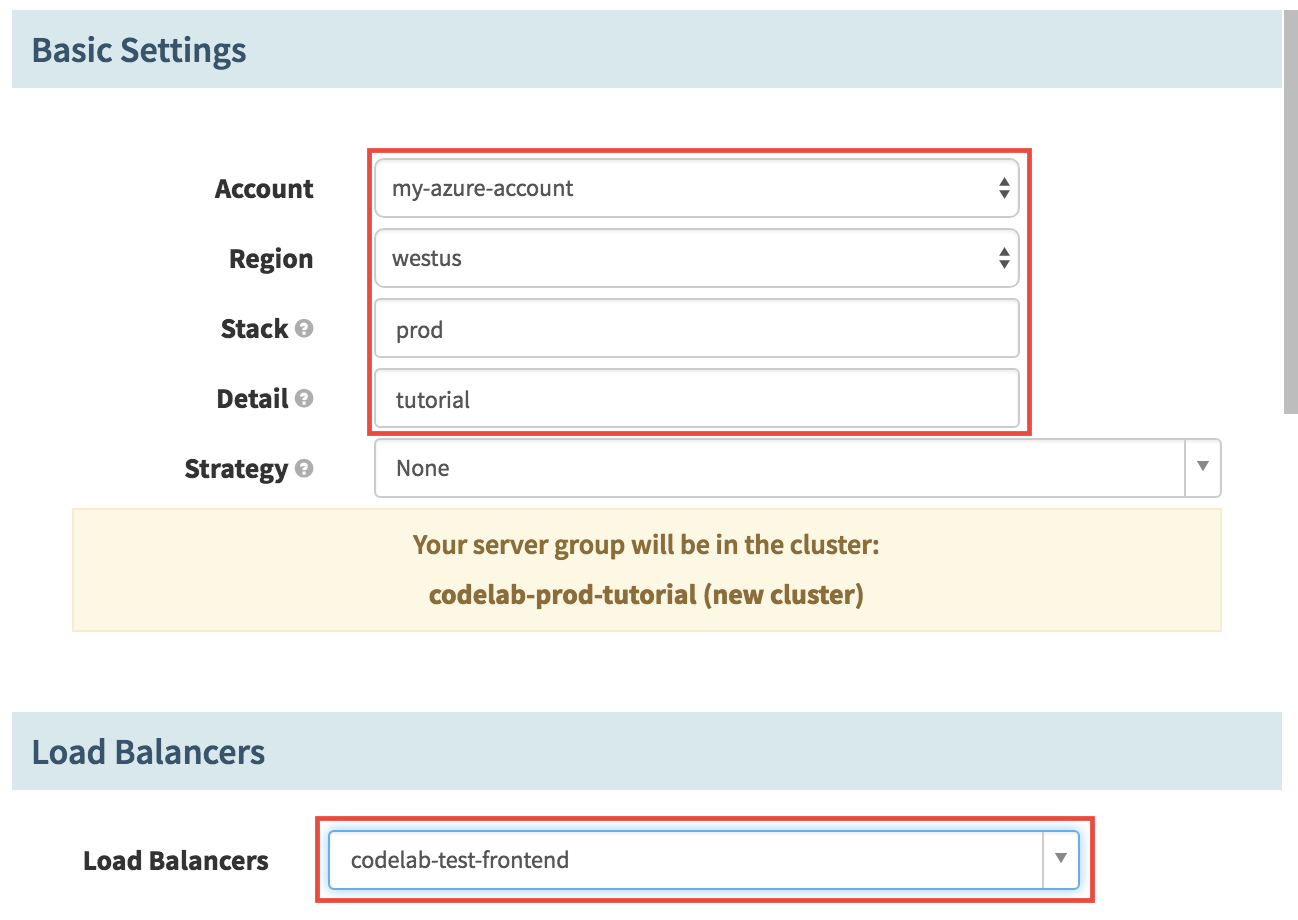
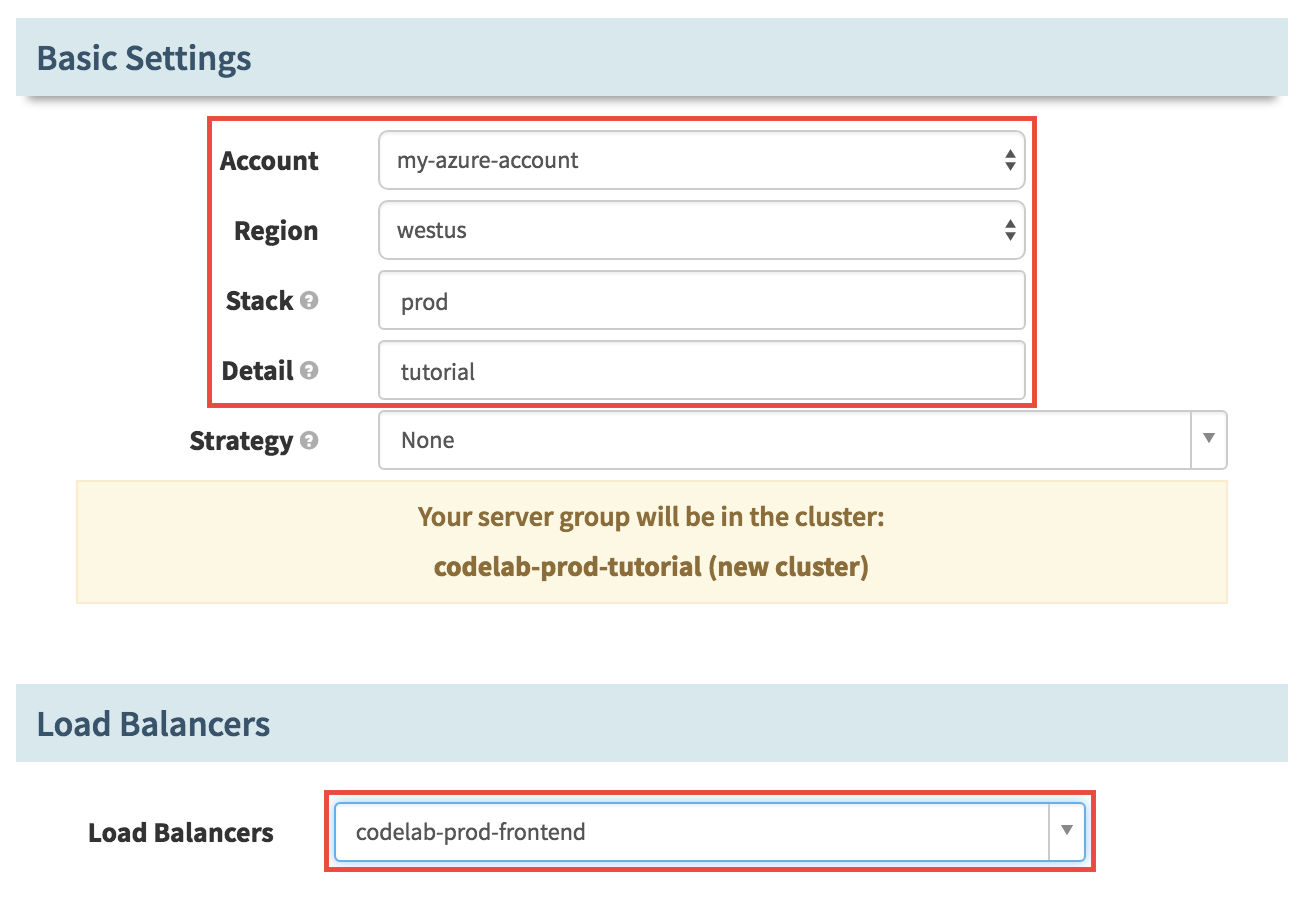
Update of documentation

Changed region(s): [[0.0, 0.0, 1.0, 0.7077], [0.0, 0.7385, 0.9861, 0.9846], [0.9861, 0.8, 1.0, 0.8308]]

diff --git a/guides/tutorials/codelabs/azure-vmss-source-to-prod/index.md b/guides/tutorials/codelabs/azure-vmss-source-to-prod/index.md
@@ -8,67 +8,41 @@ sidebar:
 {% include toc %}
 
 In this codelab, you will create a source-to-prod continuous delivery flow from source to production for a simple java based application.
-When the developer checkin code on github, a new build will be automatically triggered on Jenkins then the new version of the application will be deployed to a test environment in Azure. After a successfull test, the updated version of the application will be promoted to production. 
 
-This codelab will walk through the following step in order to implement the scenario described above: 
+After completing this lab the following workflow will happen: 
+  1. Some code is checked in on gthub.
+  2. Jenkins automatically runs a job to create a new build. 
+  3. Spinnaker deploys the new version of the application to a Test server group and disable the previous deployment.
+  4. The deployment is verified
+  5. Spinnaker redeploys the same image to the production environment and disable the previous deployment.
+  
+This codelab will walk through the steps to  implement this scenario: 
 
-0. Setup the environment and the necessary pre-requisites
-1. Configure Jenkins and Spinnaker
-2. Create a pipeline for test
-3. Create the promotion of the test to production
+  * Setup the environment and the necessary pre-requisites
+  * Configure Jenkins and Spinnaker
+  * Create the pipeline for the deployment
 
 ## 0. Environment pre-requisites 
 
 ### Deploy Spinnaker and Jenkins on Azure 
 
-If you already have Jenkins and Azure deployed on Azure, skip to the [first section](#1. Configure Jenkins).
-
 You need the following resources to perform the codelab: 
 - **Azure subscription**: You can create one for free using the [Azure Free trial](https://azure.microsoft.com/free/).
 - **Spinnaker and Jenkins VM**: You can deploy them on your Azure subscription with the [Continuous Deployment quick start template](https://github.com/Azure/azure-quickstart-templates/tree/master/301-jenkins-aptly-spinnaker-vmss) 
 
-Create a service principal with the following commands: 
+From a shell run the following command that will walk you through all the steps necessary to deploy Jenkins and Spinnaker in Azure:
 
-```bash
-az ad sp create-for-rbac --name "Spinnaker"
-APP_ID=<Insert App Id>
-TENANT_ID=<Insert Tenant Id>
+```bash 
+bash <(curl -sL https://aka.ms/DeployDevOps)
 ```
 
-Next, create a Resource Group with the following commands: 
+In the output of the above script you will find the command to open an SSH tunnel to the DevOps VM that has just been deployed. The command should look like this: 
 
 ```bash
-RESOURCE_GROUP=codelab
-az group create -n $RESOURCE_GROUP -l westus
+ssh -L 8080:localhost:8080 -L 9000:localhost:9000 -L 8084:localhost:8084 -L 8087:localhost:8087 username@vmdnsprefix.selected_region.cloudapp.azure.com
 ```
 
-> NOTE: It is suggested to use "codelab" for the name of the resource group but you can use the name you want. It should be unique in your subscription.
-
-Then deploy the DevOps VM that will have Spinnaker and Jenkins configured: 
-
-```bash
-TEMPLATE_URI=https://raw.githubusercontent.com/Azure/azure-quickstart-templates/master/301-jenkins-aptly-spinnaker-vmss/azuredeploy.json
-
-az group deployment create -g $RESOURCE_GROUP -n First.Deployment \
---template-uri $TEMPLATE_URI \
---parameters "{ \"adminUsername\": {\"value\":\"<$Insert your admin username>\"}, \
-                \"adminPassword\": {\"value\": \"<$Insert your admin password>\"}, \
-                \"devopsDnsPrefix\": {\"value\": \"<$Insert your dns prefix>\"}, \
-                \"servicePrincipalAppId\": {\"value\": \"$APP_ID\"}, \
-                \"servicePrincipalAppKey\": {\"value\": \"$TENANT_ID\"}}"
-
-```
-
-> NOTE: This step will take some time, be patient, enjoy a coffee :)
-
-Open an SSH tunnel to the DevOps VM that has just been deployed: 
-
-```bash
-SSH=$(az group deployment show -n First.Deployment -g codelab --query "properties.outputs.ssh.value" | tr -d '"')
-eval $SSH
-```
-
-> NOTE: You have to enter the password that you have specified in the previous step.
+> NOTE: You will have to enter the password that you have specified in the previous step.
 
 
 ## 1. Configure Jenkins 
@@ -83,7 +57,7 @@ eval $SSH
 
 ## 2. Configure Spinnaker
 
-### 1. Create the "codelab" application 
+### I. Create the "codelab" application 
 
 1. Navigate to your Spinnaker VM by using `http://localhost:9000` on your local machine. 
 1. Click on the "Actions" menu on the right
@@ -101,7 +75,7 @@ eval $SSH
   
     You can read more how the Spinnaker application matches to Azure resources in the [Azure reference for Spinnaker](/reference/providers/azure.md)
 
-### 2. Create a Security Group"
+### II. Create a Security Group"
 
 1. Navigate to the [SECURITY GROUPS](http://localhost:9000/#/applications/codelab/securityGroups) page and click on the *Create Security Group* button.
 1. Provide the following values in the "Create New Security Group" dialog: 
@@ -122,7 +96,7 @@ eval $SSH
 
   You can read more about the implementation of Security Groups in Azure in the [Azure reference for Spinnaker](/reference/providers/azure.md)
 
-### 3. Create a Load Balancer
+### III. Create a Load Balancer
 
 1. Navigate to the [LOAD BALANCERS](http://localhost:9000/#/applications/codelab/loadBalancers) page and click the *Create Load Balancer* button.
 1. Provide the following values in the "Create New Load Balancer" dialog: 
@@ -136,26 +110,31 @@ eval $SSH
     Verify that the Listener is configured as follows: 
   * Protocol: HTTP
   * External Port: 80
-  * Internal Port: 80 
+  * Internal Port: 8080 
 
     And click "Create", this will take approximately 15 minutes to complete.
 
-    ![Create load balancer](images/2-create-load-balancer.png)
+    ![Create test load balancer](images/2-create-test-load-balancer.png)
 
     You can learn more about the implementation of the Spinnaler Load Balancer in the [Azure reference for Spinnaker](/reference/provider/azure.md)
+
+1. Repeat the above steps to create a second load balancer for production. Use the same parameters but the following change:
+  * Stack: prod 
+
+    ![Create prod load balancer](images/2-create-prod-load-balancer.png)
 
 ## 3. Bake and Deploy to Test
 
 In this section you will create a Spinnaker pipeline that will bake the image from a Jenkins build then deploy it to test.
 
-### 1. Create a new pipeline
+### I. Create a new pipeline
 
 1. Navigate to the [PIPELINES](http://localhost:9000/#/applications/codelab/executions) page and click on the *New* button (+ sign) on the right to create a new pipeline.
 1. Name your pipeline: "Deploy codelab" and click *Create*.
 
 ![Bake and Deploy to Test](images/3-create-new-pipeline.png)
 
-### 2. Add a trigger for the pipeline
+### II. Add a trigger for the pipeline
 
 1. Click *Add Trigger* in the *Deploy codelab* window.
 1. Select the following options: 
@@ -166,7 +145,7 @@ In this section you will create a Spinnaker pipeline that will bake the image fr
 
 ![Add a trigger](images/3-add-trigger.png)
 
-### 3. Add *Bake* stage
+### III. Add *Bake* stage
 
 1. Click *Add stage* in the *Deploy codelab* window.
 1. Enter the following values: 
@@ -178,7 +157,7 @@ In this section you will create a Spinnaker pipeline that will bake the image fr
 
 ![Add Bake](images/3-add-bake-stage.png)
 
-### 4. Add *Deploy to test* stage
+### IV. Add *Deploy to test* stage
 
 1. Click *Add stage*
 1. Enter the following values: 
@@ -188,7 +167,7 @@ In this section you will create a Spinnaker pipeline that will bake the image fr
 
 ![Add Deploy to Test](images/3-add-deploy-to-test.png)
 
-### 5. Create Test deployment configuration
+### V. Create Test deployment configuration
 
 1. Click *Add server group* in the Deploy Configuration section. 
 ![Add server group](images/3-add-server-group.png)
@@ -213,7 +192,7 @@ In this section you will create a Spinnaker pipeline that will bake the image fr
 
 > NOTE: Record the name of the cluster. it will be used in the next step.
 
-### 6. Enable test deployment 
+### VI. Enable test deployment 
 
 1. Click *Add stage* in the *Deploy codelab* section.
 1. Enter the following values: 
@@ -227,7 +206,7 @@ In this section you will create a Spinnaker pipeline that will bake the image fr
 
     ![Enable test Deployment](images/3-enable-test-deployment.png)
 
-### 7. Manual Judgement 
+### VII. Manual Judgement 
 
 1. Click *Add stage* in the *Deploy codelab* section.
 1. Use the following values: 
@@ -235,16 +214,14 @@ In this section you will create a Spinnaker pipeline that will bake the image fr
   * Name: Manual Judgment
   * Depends On: Enable Test Deployment
   * Instructions: Validate test cluster 
-  * Judgement Inputs: Click *Add judgment input* and type *Go*
-    Users will select this value for the input of the manual judgement stage
 
 Save the pipeline by clicking the *Save Changes* button at the bottom right.
 
 ## 4. Promote to Prod
 
-In this section we will ad the steps that will promote the deployment to test in production.
+In this section we will add the steps that will promote the deployment to test in production.
 
-### 1. Add Deploy to prod stage
+### I. Add Deploy to prod stage
 
 1. Click *Add stage* in the *Promote to Prod* section. 
 1. Use the following values to configure the stage:
@@ -252,7 +229,7 @@ In this section we will ad the steps that will promote the deployment to test in
   * Stage Name: Deploy to Prod
   * Depends On: Manual Judgment
 
-### 2. Create Production deployment configuration 
+### II. Create Production deployment configuration 
 
 1. Click *Add server group* in the Deploy Configuration section. 
 1. Click *Continue without a template*
@@ -261,7 +238,7 @@ In this section we will ad the steps that will promote the deployment to test in
   * Region: westus (or select the region that you have selected when creating the Security Group)
   * Stack: prod
   * Details: tutorial
-  * Load Balancers: codelab-test-frontend
+  * Load Balancers: codelab-prod-frontend
   ![Configure Prod Cluster - 1](images/4-configure-prod-cluster-1.png)
   * Subnets: devopsSubnet2
   * Security Groups: codelab-web
@@ -270,13 +247,13 @@ In this section we will ad the steps that will promote the deployment to test in
     - Custom Data: PROD
     - Custom Script: https://raw.githubusercontent.com/azure-devops/hello-karyon-rxnetty/master/scripts/setcustomenv.sh
     - Command To Execute: sudo bash ./setcustomenv.sh
-  ![Configure Deployment Cluster - 3](images/3-configure-deployment-cluster-3.png)
+  ![Configure Deployment Cluster - 3](images/4-configure-prod-cluster-2.png)
 
   * Click *Add* 
 
 > NOTE: Record the name of the cluster. it will be used in the next step.
 
-### 3. Enable Prod deployment
+### III. Enable Prod deployment
 
 1. Click *Add stage* in the *Deploy codelab* section.
 1. Use the following values to configuret this stage: 
@@ -295,26 +272,35 @@ In this section we will ad the steps that will promote the deployment to test in
 
 In this step you will try out the pipeline that you have just build. 
 
-1. Click on *Start Manual Execution* 
+1. Modify the application code to trigger a new Jenkins build and monitor that it triggers the Spinnaker pipeline.
+   You can also click on *Start Manual Execution* if you want to use an existing build. 
 1. Navigate to the [PIPELINES](http://localhost:9000/#/applications/codelab/executions) tab
 1. Click on *Details* to get more information about the status of your deployment
+1. Connect to your application. 
+   You can find the public name of your application ny looking at the DNS Name that has been assigned to your load balancer.
+   ![DNS Name of your application](images/5-application-dns-name.png) 
 
 ## 6. Tear Down
 
-### 1. Delete your pipeline 
+### I. Delete your pipeline 
 
 1. In the configuration of your pipeline, click on *Pipeline Actions* then click on *Delete*
 ![Delete pipeline](images/6-delete-pipeline.png)
 
-### 2. Delete your server groups 
+### II. Delete your server groups 
 
 1. Navigate to the [CLUSTERS](http://localhost:9000/#/applications/codelab/clusters) section.
 1. Select each Server Group in the list and select *Destroy* for each of them. 
 ![Destroy Server Group](images/6-destroy-server-group.png)
 
-### 3. Delete your load balancers
+### III. Delete your load balancers
 
 1. Navigate to the [LOAD BALANCERS](http://localhost:9000/#/applications/codelab/loadBalancers) section.
 1. Select each Load Balancer in the list then in the *Load Balancer Actions* select *Delete Load Balancer* 
 ![Delete Load Balancer](images/6-delete-load-balancer.png)
 
+### IV. Delete your security group
+
+1. Navigate to the [SECURITY GROUP](http://localhost:9000/#/applications/codelab/securityGroups) section.
+1. Select each Security Group in the list then in the *Security Group Actions* select *Delete Security Group* 
+![Delete Security Group](images/6-delete-security-group.png)
